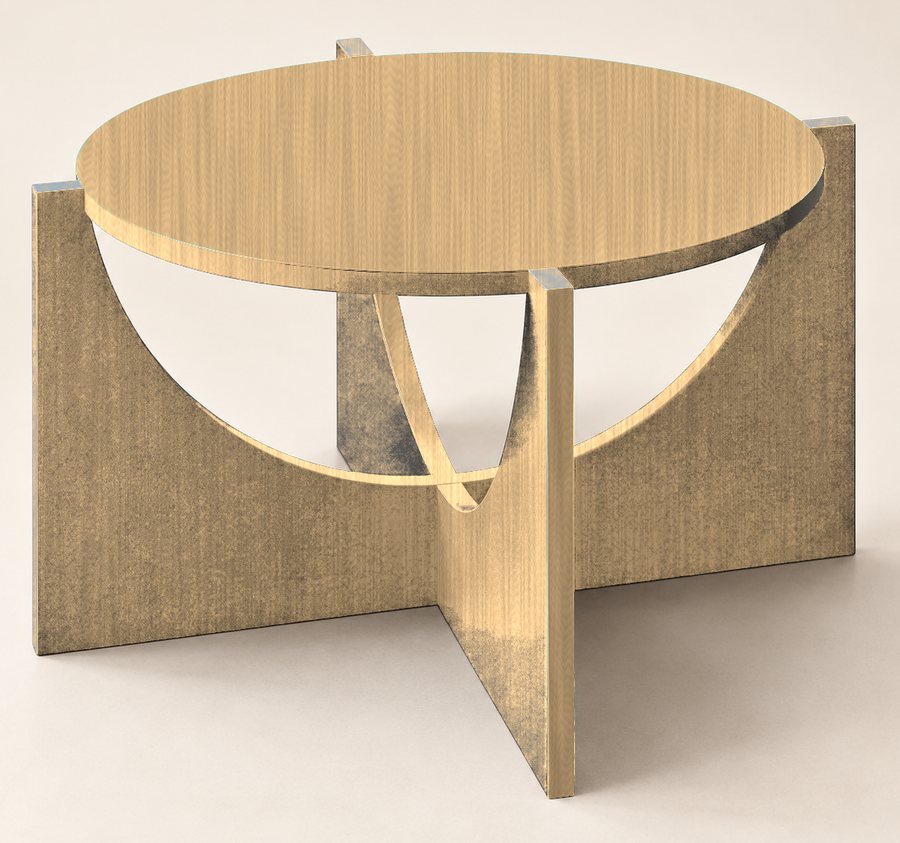
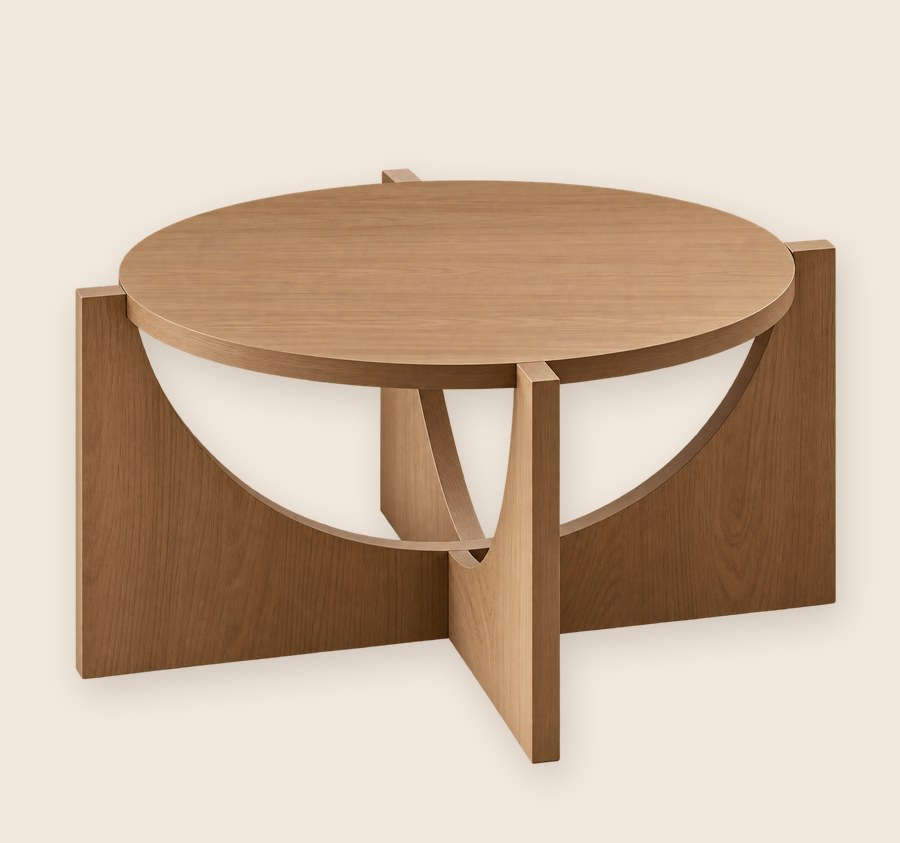
Replace oak and lifestyle photos; Cream × Brick lifestyle caption
Claude-Session: https://claude.ai/code/session_018BGafmWB3sae5LfdRxXXm2

diff --git a/index.html b/index.html
@@ -100,7 +100,7 @@ p{margin:0}
 .idea-grid{display:grid;grid-template-columns:repeat(12,1fr);gap:clamp(24px,4vw,64px) clamp(12px,2vw,28px);align-items:end}
 .idea-grid .txt{grid-column:1/6;display:flex;flex-direction:column;gap:1.4rem}
 .idea-grid figure{grid-column:6/13;margin:0}
-.idea-grid figure img{width:100%;aspect-ratio:3/2;object-fit:cover}
+.idea-grid figure img{width:100%;aspect-ratio:3/2;object-fit:cover;object-position:50% 62%}
 .idea-grid figcaption{margin-top:.8rem;color:var(--ink-2);display:flex;justify-content:space-between;gap:1rem}
 .idea-head{grid-column:1/-1}
 @media (max-width:860px){.idea-grid .txt,.idea-grid figure{grid-column:1/-1}}
@@ -736,8 +736,8 @@ S.idea=()=>`
     <p class="sub">The name is Italian for <em>all round</em>. <span lang="it">Tutto tondo.</span> It describes the shape, and the way the idea holds together from every side.</p>
     <div><a class="linkline mono" href="#/about" data-link="/about">Designed by Greta →</a></div>
   </div>
-  <figure><img src="img/lifestyle.jpg" width="1500" height="1000" loading="lazy" alt="TuttoTondo in a warm plaster interior with a view of the lake">
-    <figcaption class="mono"><span>TuttoTondo · Graphite × Seaside</span><span>Ø 60 × H 40</span></figcaption></figure>
+  <figure><img src="img/lifestyle.jpg" width="1312" height="1199" loading="lazy" alt="TuttoTondo in cream and brick in a sunlit living room above the lake">
+    <figcaption class="mono"><span>TuttoTondo · Cream × Brick</span><span>Ø 60 × H 40</span></figcaption></figure>
 </div></section>`;
 
 S.sheet=()=>`
